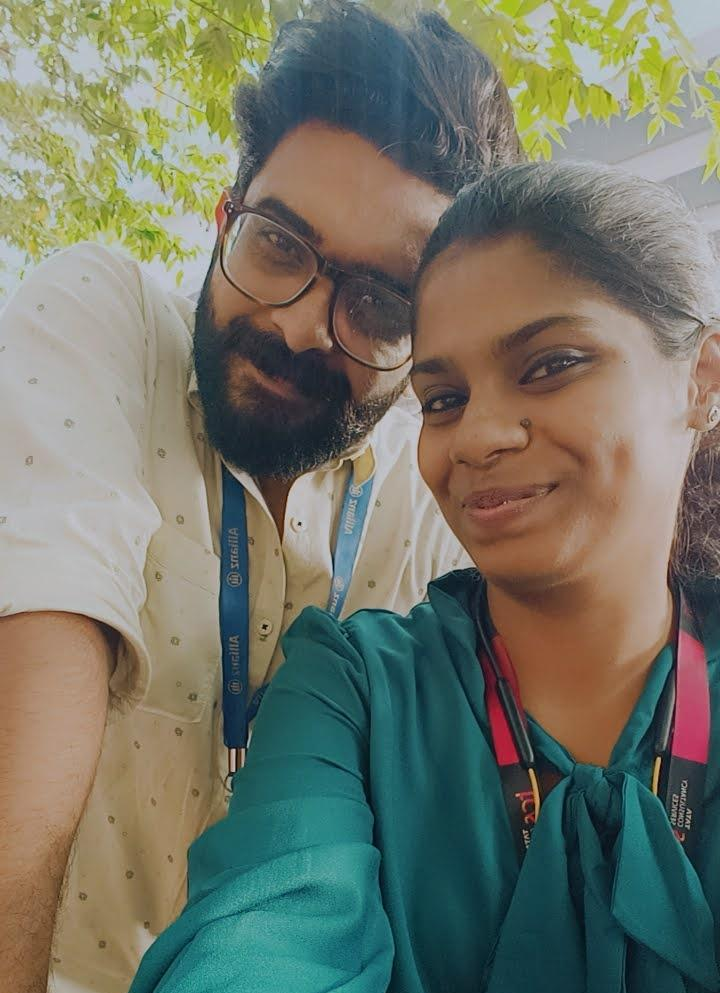
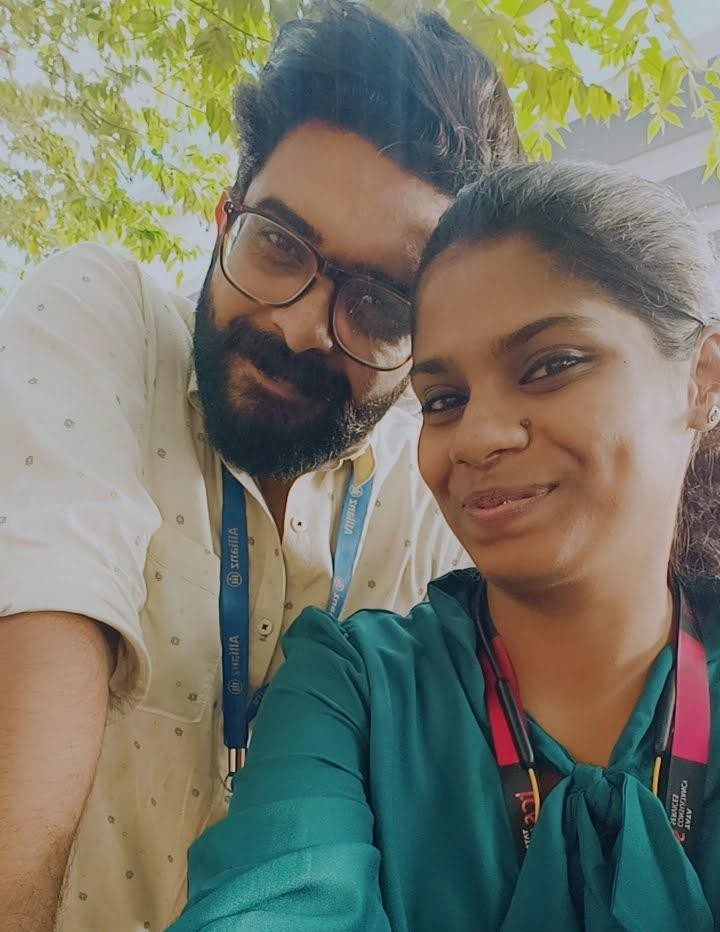
new images

diff --git a/src/main.jsx b/src/main.jsx
@@ -15,13 +15,13 @@ import perfectProjectPartnersImage from './assets/Perfect Project Partners.jpeg'
 import photoshootDayImage from './assets/Photoshoot day.jpeg';
 import tuitionTimeImage from './assets/Tuition time.jpeg';
 import walkingImage from './assets/walk.jpeg';
-import favoriteMomentImage from './assets/WhatsApp Image 2026-08-25 at 6.57.44 PM.jpeg';
+import favoriteMomentImage from './assets/favorite moment.jpeg';
 import nowImage from './assets/now.jpeg';
 import oldPhotoImage from './assets/old-photo.jpg';
 import venueImage from './assets/Venue.jpeg';
 import closingImage from './assets/closing.jpeg';
 import perfectSong from './assets/song.mp3';
-
+import duringCollegeTripImage from './assets/During College Trip.jpeg';
 import './styles.css';
 
 const envelopeCoverImage = `${import.meta.env.BASE_URL}images/cover-invitation.png`;
@@ -33,11 +33,13 @@ const frameImages = {
   firstNightOut: firstNightOutImage,
   firstTripTogether: firstTripTogetherImage,
   perfectProjectPartners: perfectProjectPartnersImage,
+  duringCollegeTrip: duringCollegeTripImage,
   photoshootDay: photoshootDayImage,
   tuitionTime: tuitionTimeImage,
   graduation: graduationImage,
   firstJob: firstJobImage,
   walk: walkingImage,
+  favoriteMoment: favoriteMomentImage,
 };
 const fixationReelUrl = 'https://www.instagram.com/reel/C50tPyYJyLy/';
 const fixationEmbedUrl = 'https://www.instagram.com/reel/C50tPyYJyLy/embed';

diff --git a/src/data/wedding.js b/src/data/wedding.js
@@ -50,6 +50,7 @@ export const weddingData = {
     { title: 'First night out.', variant: 'firstNightOut' },
     { title: 'First trip together.', variant: 'firstTripTogether' },
     { title: 'Perfect project partners.', variant: 'perfectProjectPartners' },
+    { title: 'During college trip.', variant: 'duringCollegeTrip' },
     { title: 'Bangalore days.', variant: 'bangaloreDays' },
     { title: 'Graduation day.', variant: 'graduation' },
     { title: 'First Job.', variant: 'firstJob' },
